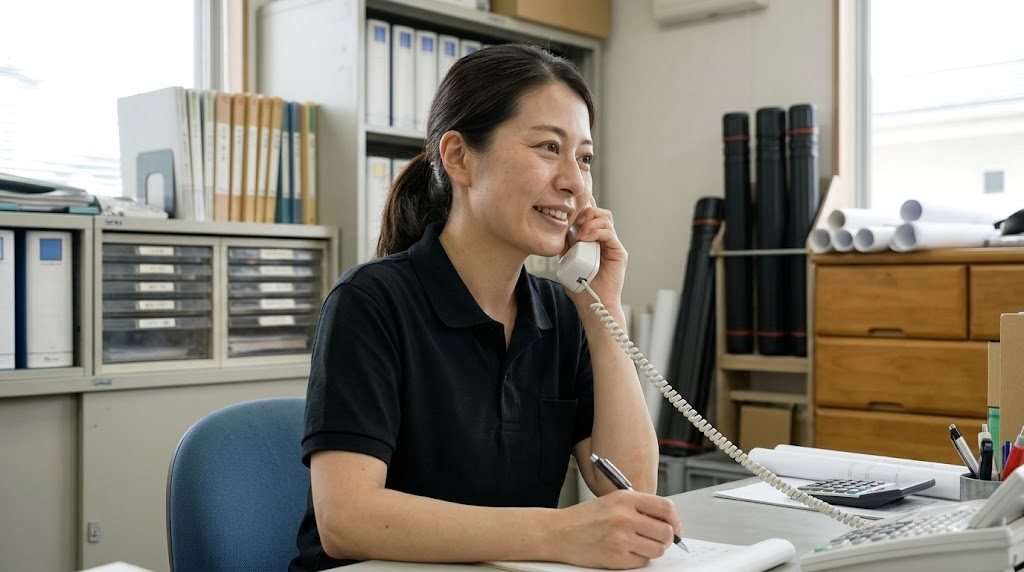
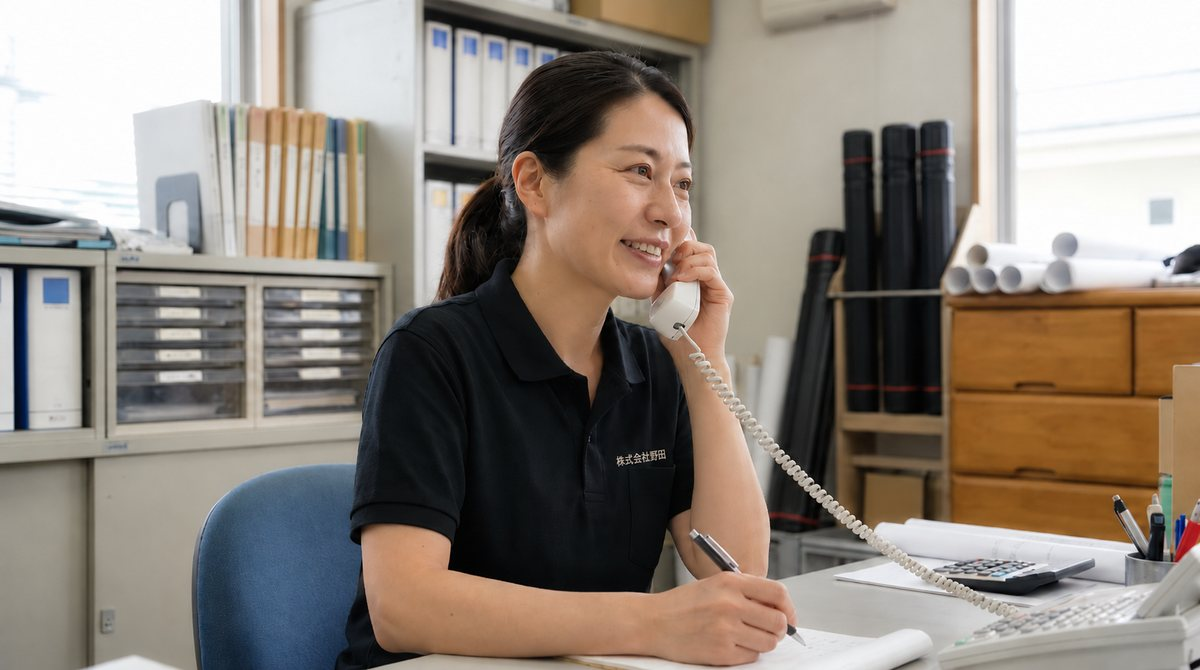
流れ STEP1 の写真を、胸に社名の刺しゅうを入れた版に入れ替え
Claude-Session: https://claude.ai/code/session_01DdXC7ESWouB9X5foU46cUt

diff --git a/app/pages/flow.php b/app/pages/flow.php
@@ -1,6 +1,6 @@
 <?php
 // 現行サイトの人物AI画像（ai-*.jpg）は、2026-10-22 に Boss が選んだ写真へすべて差し替え済み。
-// 差し替え済み：STEP2「現場調査〜お打ち合わせ」→ flow-survey.jpg（Boss 選定 2026-10-22）、STEP7「工事完了・最終チェック」→ flow-check.jpg（同日）、STEP6「施工開始」→ flow-start.jpg（同日）、STEP8「アフターフォロー」→ flow-aftercare.jpg（同日、16:9 を3:2枠で左右を少し切る）、STEP1「お問い合わせ」→ flow-call.jpg（同日、16:9）
+// 差し替え済み：STEP2「現場調査〜お打ち合わせ」→ flow-survey.jpg（Boss 選定 2026-10-22）、STEP7「工事完了・最終チェック」→ flow-check.jpg（同日）、STEP6「施工開始」→ flow-start.jpg（同日）、STEP8「アフターフォロー」→ flow-aftercare.jpg（同日、16:9 を3:2枠で左右を少し切る）、STEP1「お問い合わせ」→ flow-call.jpg（同日、16:9。のち胸に社名の刺しゅうを入れた版に入れ替え）
 render('page-head', [
     'label' => 'FLOW',
     'title' => 'お問い合わせから|施工までの流れ',
